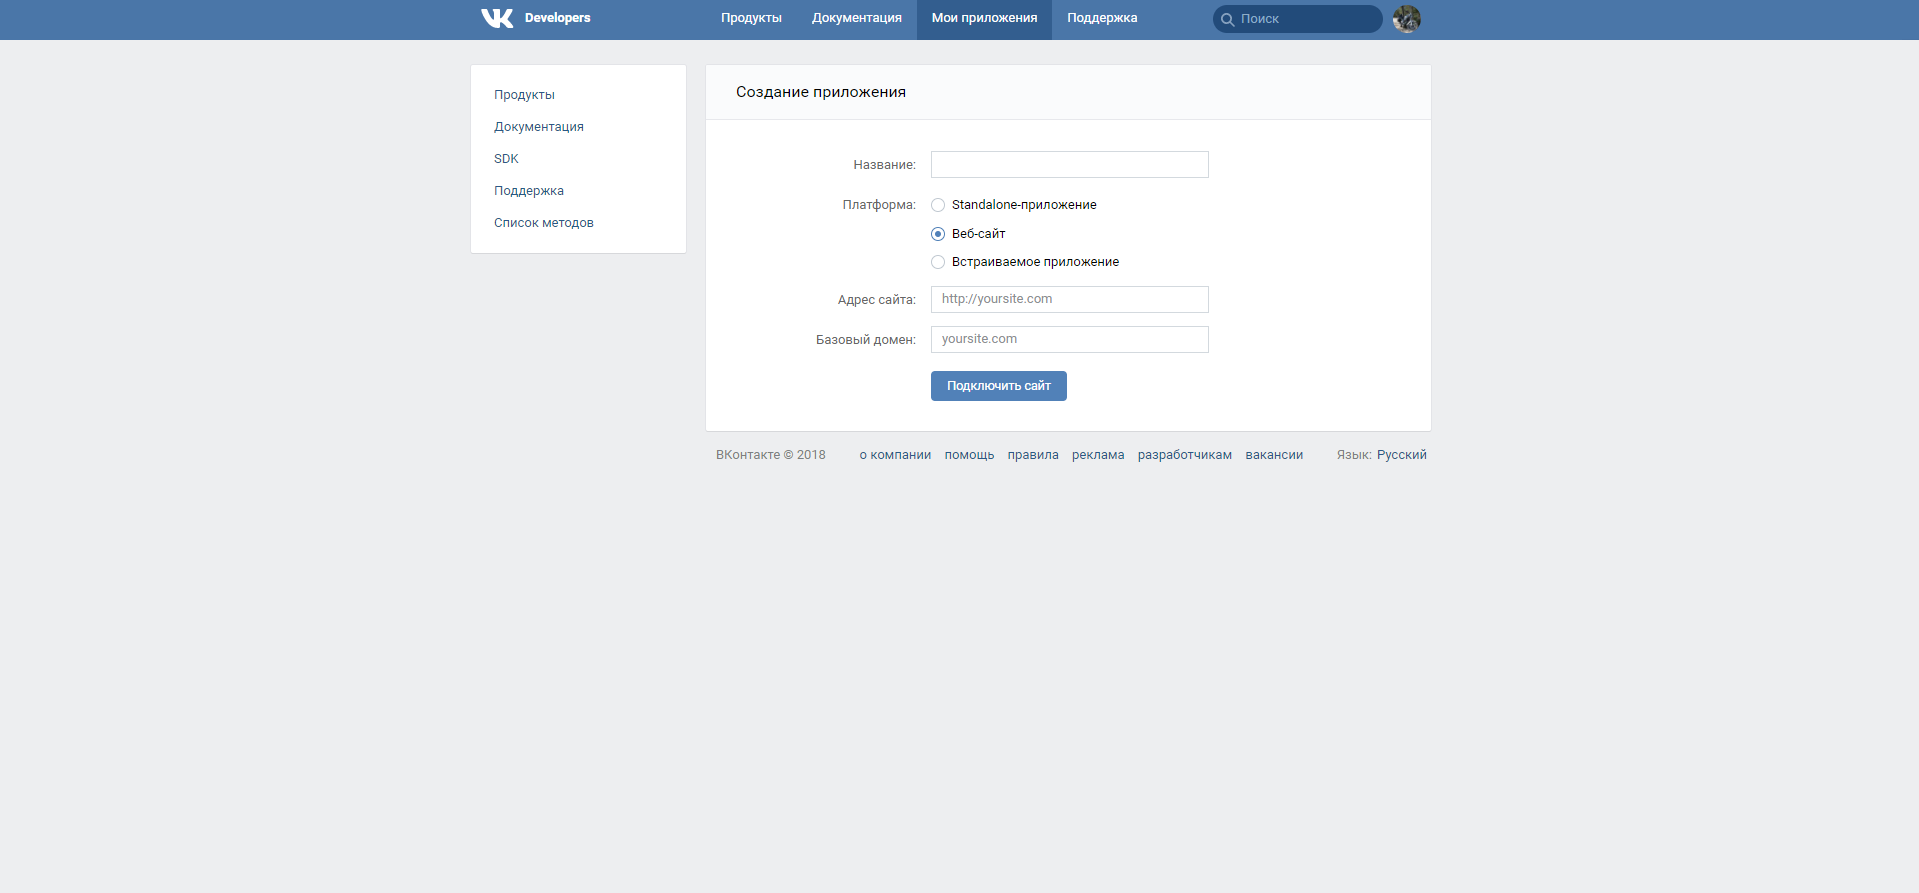
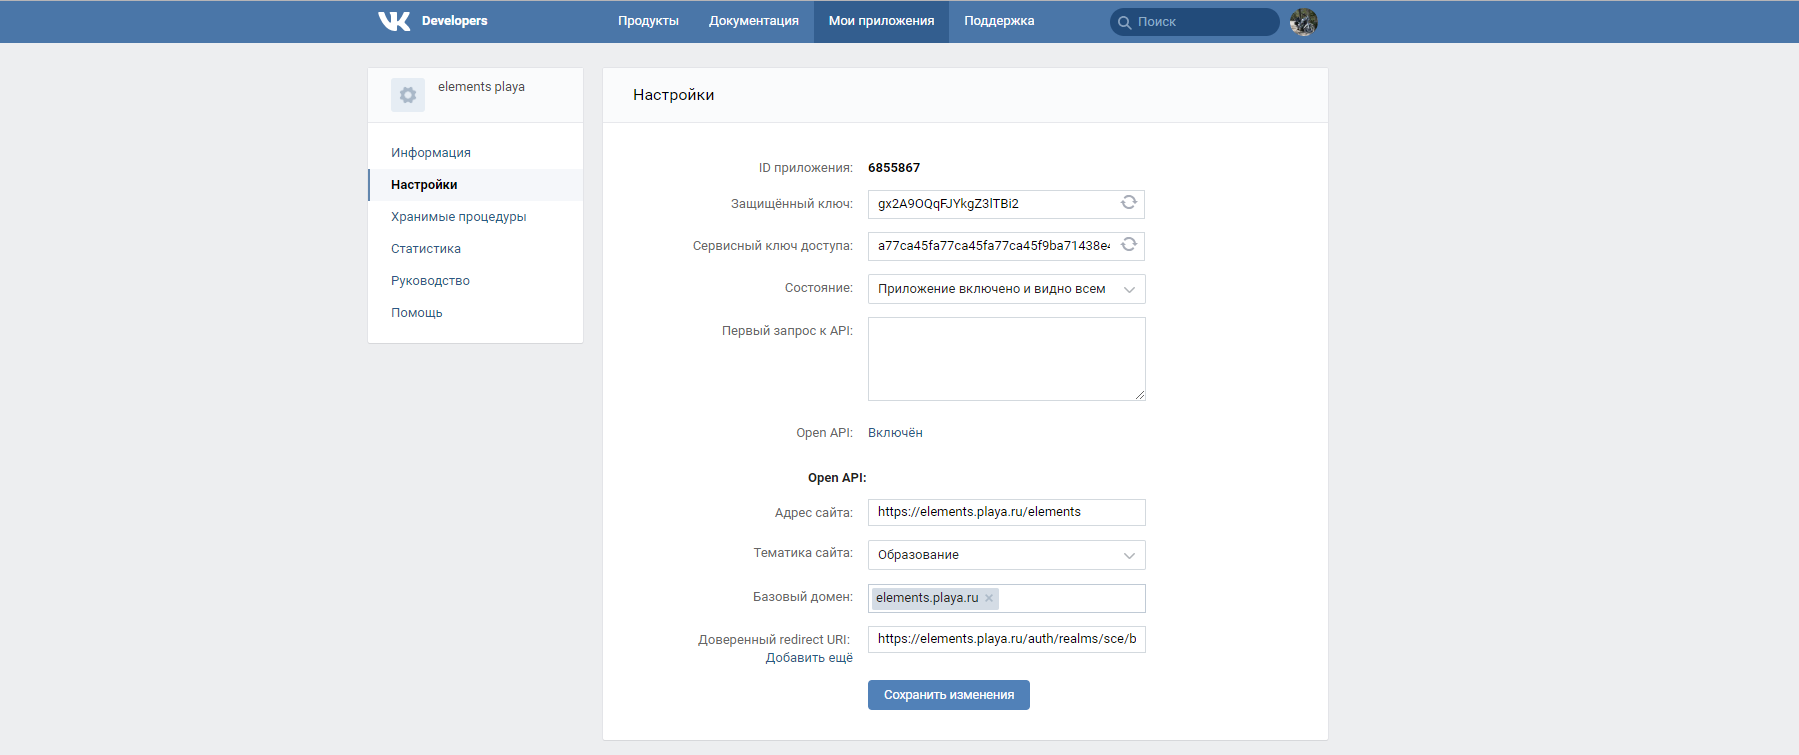
Документация vk.ru

diff --git a/docs/vk.md b/docs/vk.md
@@ -1,22 +1,28 @@
 # ВКонтакте
 
+**Создание и настройка приложения в [ВКонтакте](https://vk.com/editapp?act=create)**
+
+1. Создание приложение.
++ Заполняем поле *Название*.
++ Поле *Платформа* выбираем *Веб-сайт*.
++ Заполняем поле *Адрес сайта*.
++ Заполняем поле *Базовый домен*.
++ Нажимаем кнопку *Подключить сайт*.
+![Создание приложение ВКонтакте](screenshots/vk_provider_1.png)
+
+2. Настрока приложения.
++ Заполняем поле *Доверенный redirect URI* - https://${keycloak-host}/auth/realms/${realm-name}/broker/vk/endpoint, где
+ _keycloak-host_ - домен на котором размещен _Keycloak_,
+ _realm-name_ - название _Realm_ в _Keycloak_.
+![Доверенный redirect URI](screenshots/vk_provider_2.png)
+
+**Создание провайдера Keycloak**
 1. Из списка провайдеров выбрать [ВКонтакте](https://vk.com).
-![Выбор Яндекс провайдера](screenshots/vk_provider_1.png)
+![Выбор VK провайдера](screenshots/vk_provider_3.png)
 
-2. Создать приложение в [ВКонтакте](https://vk.com/editapp?act=create)
-![Выбор Яндекс провайдера](screenshots/vk_provider_2.png)
-
-В открышвемся окне необходимо заполнить поле *Название*. 
-
-Поле *Платформа* установить в *Веб-сайт*
-
-Также необходимо заполнить *Адрес сайта* и *Базовый домен*
-
-Нажимаем кнопку *Подключить сайт*.
-
-В разделе *Настройки*.
-* Значение поля *Доверенный redirect URI* заполнить значением *Redirect URI* из админки Keycloak.
-
-3. Копируем значение *ID приложения* в поле *Client ID* в админке *Keycloak*.
-4. Копируем значение *Защищённый ключ* в поле *Client Secret* в админке *Keycloak*.
+2. Копируем значение *ID приложения* в поле *Client ID* в админке *Keycloak*.
+3. Копируем значение *Защищённый ключ* в поле *Client Secret* в админке *Keycloak*.
+4. Заполняем поле **API Version** текущую версию можно посмотреть [здесь](https://vk.com/dev/versions)
 5. Нажимаем кнопку *Save* в админке *Keycloak*.
+
+![Создание провайдера Keycloak](screenshots/vk_provider_4.png)
